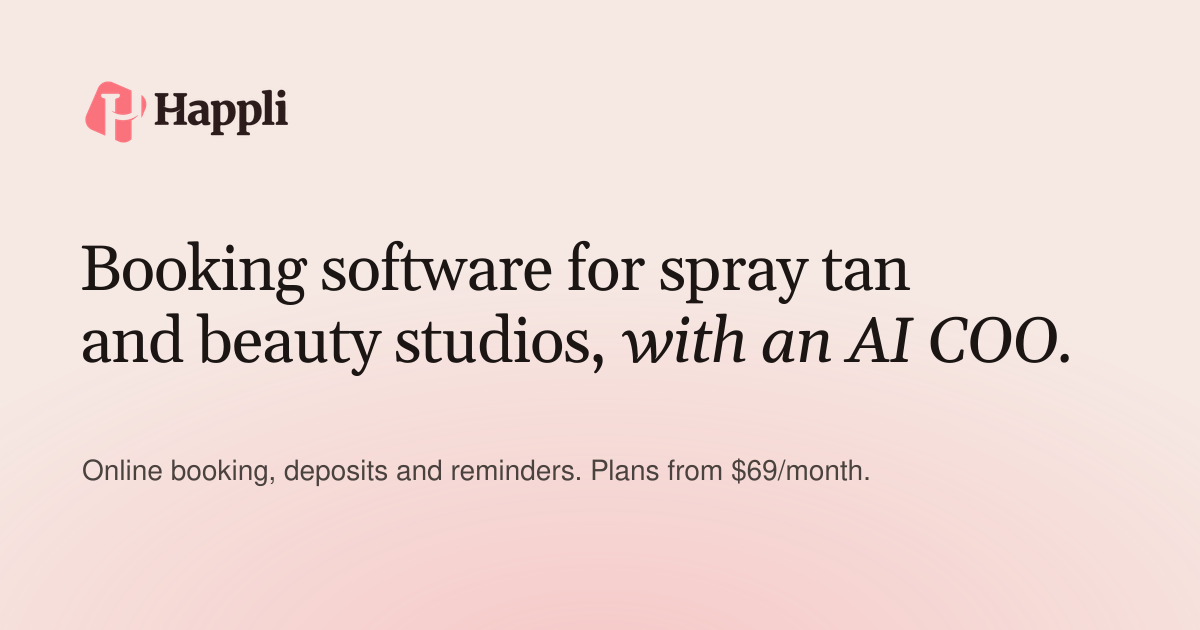
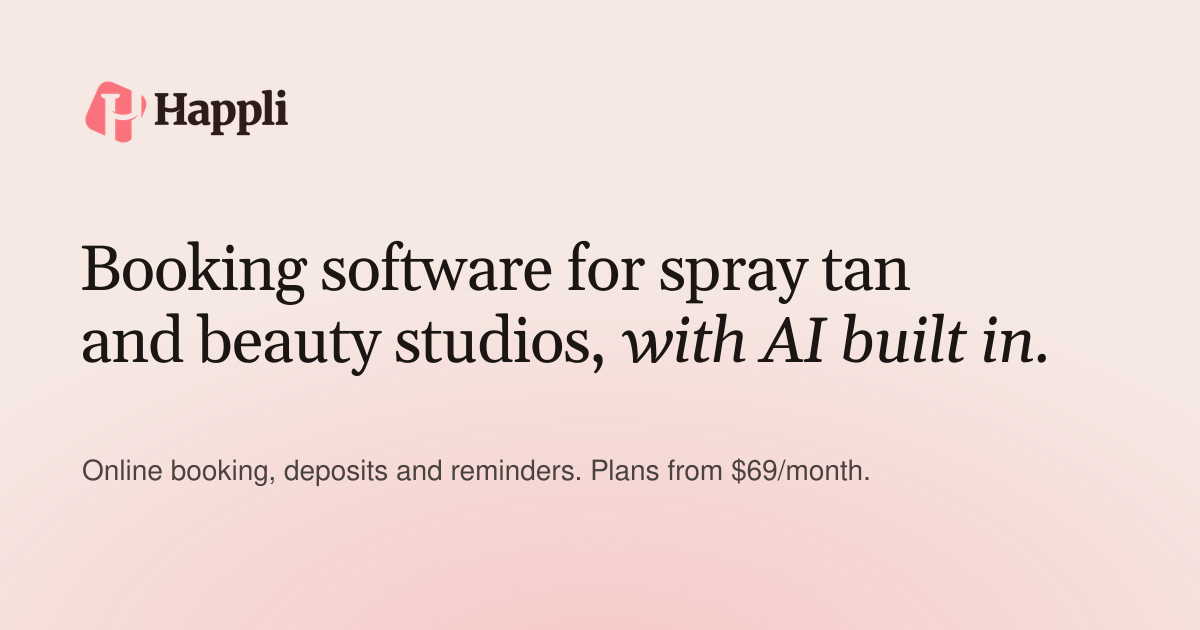
Match AI claims to live features; label AI COO chat coming soon and website chat early access

Changed region(s): [[0.6167, 0.4825, 0.8942, 0.573]]

diff --git a/src/legal/terms.html b/src/legal/terms.html
@@ -5,7 +5,7 @@
   <p>These Terms include our <a href="/privacy/">Privacy Policy</a>, <a href="/dpa/">Data Processing Addendum</a>, <a href="/acceptable-use/">Acceptable Use Policy</a>, <a href="/refunds/">Refund and Cancellation Policy</a> and <a href="/sms-terms/">SMS Terms</a>.</p>
 
   <h2>1. The Service</h2>
-  <p>Happli gives studios online booking pages, a desk calendar, checkout, packages, gift cards, forms and waivers, appointment reminders, reports, email rewards, client import, optional marketing campaigns and an AI COO that drafts messages and recommendations. Features may be added, changed or removed over time. We'll tell you before a change that materially reduces what you've paid for.</p>
+  <p>Happli gives studios online booking pages, a desk calendar, checkout, packages, gift cards, forms and waivers, appointment reminders, reports, email rewards, client import, optional marketing campaigns, and AI features that draft messages, answer questions about your reports and turn uploaded forms into online forms. An AI COO chat is coming soon. Features may be added, changed or removed over time. We'll tell you before a change that materially reduces what you've paid for.</p>
 
   <h2>2. Your account</h2>
   <ul>
@@ -52,7 +52,7 @@
   <ul>
     <li>Only import or add clients you have a genuine business relationship with, and don't import contact lists you bought or scraped.</li>
     <li>Happli honors STOP replies and unsubscribe links, applies quiet hours to texts, and identifies your Studio as the sender. Don't try to message anyone who has opted out.</li>
-    <li>The AI COO's drafts are suggestions. Drafted campaign and follow-up messages aren't sent until a person on your team approves them. Transactional messages you switch on, such as booking confirmations, appointment reminders, and change or cancellation notices, send automatically.</li>
+    <li>AI drafts are suggestions. Drafted campaign and follow-up messages aren't sent until a person on your team approves them. Transactional messages you switch on, such as booking confirmations, appointment reminders, and change or cancellation notices, send automatically.</li>
     <li>Text messaging is also subject to carrier rules and our <a href="/sms-terms/">SMS Terms</a>. Carriers may filter or block messages, and we don't guarantee delivery.</li>
   </ul>
 

diff --git a/src/legal/security.html b/src/legal/security.html
@@ -10,7 +10,7 @@
   <p>Data is encrypted in transit (TLS) and at rest (our database provider encrypts storage). Payment details are handled entirely by Stripe — full card numbers never touch our systems.</p>
 
   <h2>The approval gate as a safety control</h2>
-  <p>No client-facing message leaves the Service without the business operator's explicit approval. This is a permanent architectural decision, not a setting — it means an AI mistake can't reach your clients on its own, and every outbound message has a human decision attached to it in the audit trail.</p>
+  <p>No AI-drafted message leaves the Service without the studio's explicit approval. This is a permanent architectural decision, not a setting: it means an AI mistake can't reach your clients on its own, and every approved message has a human decision attached to it in the audit trail. Transactional messages a studio switches on, such as booking confirmations and reminders, use the studio's own wording and send automatically.</p>
 
   <h2>Auditability</h2>
   <p>Actions in the Service — syncs, drafts, approvals, sends, opt-outs — are recorded in an append-only audit log scoped to your business.</p>

diff --git a/src/config/site.ts b/src/config/site.ts
@@ -10,8 +10,8 @@ const sections = { blog: false, compare: true };
 export const site = {
   name: 'Happli',
   url: 'https://gohappli.com',
-  positioning: 'Booking software for spray tan and beauty studios, with an AI COO.',
-  tagline: 'Booking software for spray tan and beauty studios, with an AI COO.',
+  positioning: 'Booking software for spray tan and beauty studios, with AI built in.',
+  tagline: 'Booking software for spray tan and beauty studios, with AI built in.',
   helpUrl: 'https://support.gohappli.com/',
   appUrl: 'https://app.gohappli.com',
   signInUrl: 'https://app.gohappli.com/login',

diff --git a/src/config/pricing.ts b/src/config/pricing.ts
@@ -111,7 +111,9 @@ export const includedEverywhere = [
   'Reminders',
   'Memberships (coming soon)',
   'Reports',
-  'AI COO',
+  'Ask your reports (AI)',
+  'AI form import',
+  'AI COO (coming soon)',
   'Email rewards',
   'Client import',
   'Free team logins',

diff --git a/src/content/compare/mangomint.md b/src/content/compare/mangomint.md
@@ -14,7 +14,7 @@ todo:
 
 *Last checked Oct 15, 2026. Mangomint details come from its [public pricing page](https://www.mangomint.com/pricing/). Prices and features change, so check their site before you decide.*
 
-Mangomint is a booking and payments system with a pricing model built on locations and users. Happli is booking software for spray tan and beauty studios, with an AI COO that keeps a short list of what needs you. Both handle online booking, reminders and payments. They differ in price, how they charge, and how much of the day they try to run for you.
+Mangomint is a booking and payments system with a pricing model built on locations and users. Happli is booking software for spray tan and beauty studios, with AI built in and a short list of what needs you. Both handle online booking, reminders and payments. They differ in price, how they charge, and how much of the day they try to run for you.
 
 ## At a glance
 

diff --git a/src/content/compare/glossgenius.md b/src/content/compare/glossgenius.md
@@ -15,7 +15,7 @@ todo:
 
 *Last checked Oct 15, 2026. GlossGenius details come from its [public pricing page](https://glossgenius.com/pricing). Prices and features change, so check their site before you decide.*
 
-GlossGenius is an all-in-one booking, payments and marketing platform for beauty and wellness businesses. Happli is booking software for spray tan and beauty studios, with an AI COO. Both give you online booking and client messaging. The biggest differences are how plans are tiered and what you get at each level.
+GlossGenius is an all-in-one booking, payments and marketing platform for beauty and wellness businesses. Happli is booking software for spray tan and beauty studios, with AI built in. Both give you online booking and client messaging. The biggest differences are how plans are tiered and what you get at each level.
 
 ## At a glance
 

diff --git a/src/content/compare/vagaro.md b/src/content/compare/vagaro.md
@@ -15,7 +15,7 @@ todo:
 
 *Last checked Oct 15, 2026. Vagaro details come from its [public pricing page](https://www.vagaro.com/pro/pricing). Prices and features change, so check their site before you decide.*
 
-Vagaro is a general-purpose booking platform that includes a free Marketplace listing. Happli is booking software for spray tan and beauty studios, with an AI COO. Vagaro is broad and lower-priced. Happli is narrower and built around the spray tan day.
+Vagaro is a general-purpose booking platform that includes a free Marketplace listing. Happli is booking software for spray tan and beauty studios, with AI built in. Vagaro is broad and lower-priced. Happli is narrower and built around the spray tan day.
 
 ## At a glance
 
